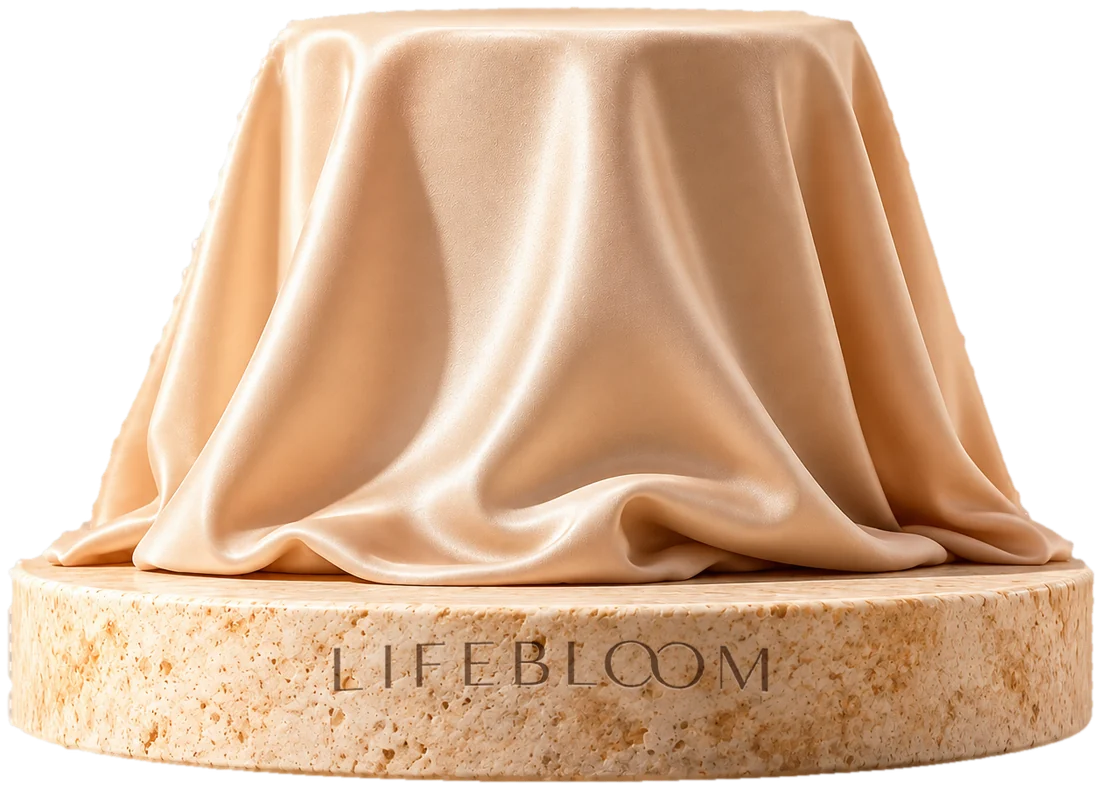
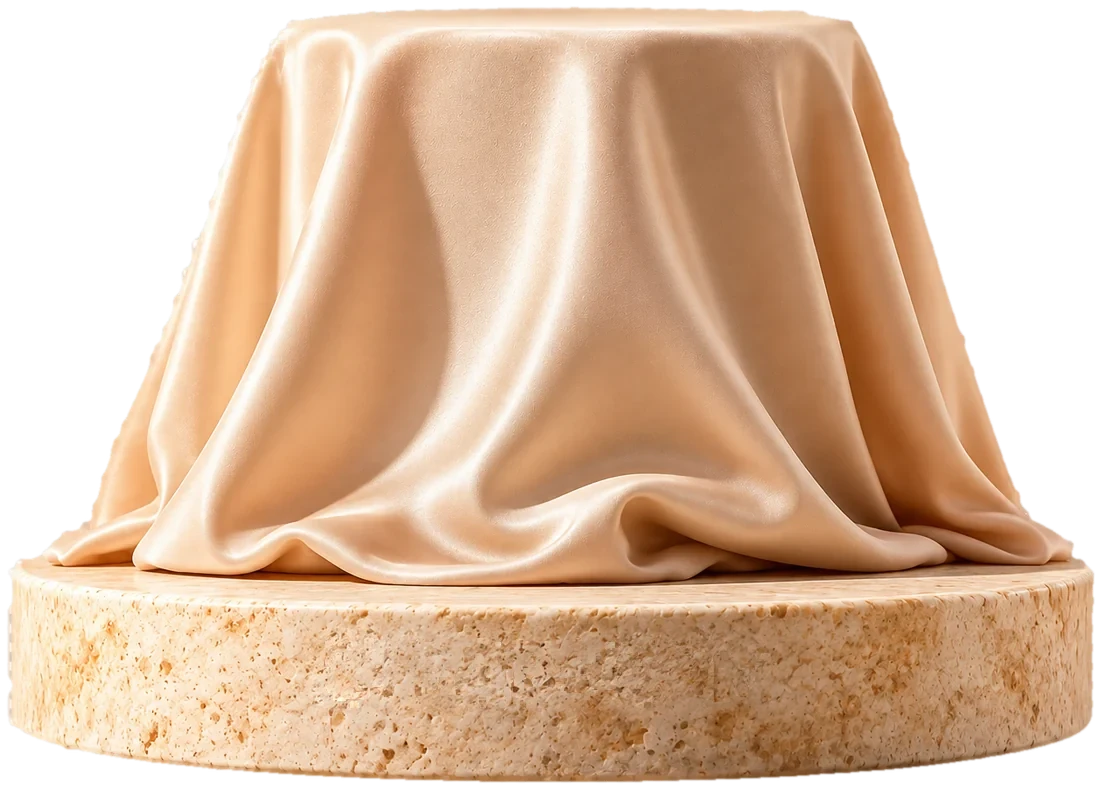
first changes list complete

Changed region(s): [[0.2782, 0.7919, 0.7109, 0.9137]]

diff --git a/index.html b/index.html
@@ -86,6 +86,15 @@ section[id]{scroll-margin-top:84px}
 .nav a{text-decoration:none;font-weight:500;font-size:.95rem;color:var(--cocoa-2);transition:color .2s}
 .nav a:hover{color:var(--rose-ink)}
 .hdr .btn{padding:.72rem 1.3rem;font-size:.92rem}
+.social{display:flex;gap:8px;align-items:center}
+.social a{width:40px;height:40px;border-radius:50%;border:1.5px solid rgba(63,38,25,.22);display:grid;place-items:center;color:var(--cocoa);transition:background .3s,border-color .3s,color .3s,transform .3s var(--ease)}
+.social a:hover{background:var(--white);border-color:var(--cocoa);color:var(--rose-ink);transform:translateY(-2px)}
+.social svg{width:18px;height:18px}
+.social-hdr{margin-left:-6px}
+.social-hdr a{width:36px;height:36px}
+.social-hdr svg{width:16px;height:16px}
+.social-ftr a{width:52px;height:52px}
+.social-ftr svg{width:20px;height:20px}
 
 /* ================= HERO: studio reveal ================= */
 .hero{position:relative;overflow:hidden;text-align:center;padding:30px 0 84px;
@@ -118,6 +127,10 @@ section[id]{scroll-margin-top:84px}
 .ped img{position:relative;width:100%;height:auto;filter:drop-shadow(0 26px 24px rgba(63,38,25,.15));transition:transform .7s var(--ease),filter .7s}
 .ped::before{content:"";position:absolute;left:7%;right:7%;bottom:-2.5%;height:13%;border-radius:50%;
   background:radial-gradient(ellipse at center,rgba(84,48,32,.42),rgba(84,48,32,0) 70%);filter:blur(5px);transition:transform .7s var(--ease),opacity .7s}
+/* slow turntable spin on the pedestal */
+.ped{perspective:1600px}
+.ready .ped img{animation:pedSpin 9s linear 1.6s infinite}
+@keyframes pedSpin{from{rotate:y 0deg}to{rotate:y 360deg}}
 .ped:hover img,.ped:focus-visible img{transform:translateY(-10px);filter:drop-shadow(0 38px 30px rgba(63,38,25,.2))}
 .ped:hover::before,.ped:focus-visible::before{transform:scale(.9);opacity:.7}
 .peek{position:absolute;left:50%;top:-6%;transform:translate(-50%,8px);opacity:0;pointer-events:none;white-space:nowrap;
@@ -173,8 +186,9 @@ section[id]{scroll-margin-top:84px}
 .manifesto p{font-family:var(--serif);font-weight:300;font-size:clamp(1.9rem,4.2vw,3.5rem);line-height:1.18;letter-spacing:-.02em;max-width:1000px;margin:0 auto;text-align:center}
 .manifesto .w{opacity:.16;transition:opacity .35s}
 .manifesto .w.on{opacity:1}
-.manifesto .sig{display:flex;justify-content:center;margin-top:40px}
-.manifesto .sig img{width:70px;opacity:.85}
+.manifesto p.m-close{font-style:italic;font-size:clamp(1.4rem,2.6vw,2.1rem);color:var(--rose-ink);margin-top:28px}
+.manifesto .sig{display:flex;justify-content:center;margin-top:48px}
+.manifesto .sig img{width:clamp(130px,16vw,180px);opacity:.9}
 
 /* ================= PRODUCT SHOWCASE ================= */
 .showcase{--tint:#F4E0D7;position:relative;border-radius:40px;background:var(--tint);transition:background .8s var(--ease);
@@ -211,28 +225,12 @@ section[id]{scroll-margin-top:84px}
 .sw small{display:block;font-size:.84rem;color:var(--muted);font-weight:500}
 .fine{font-size:.86rem;color:var(--muted);margin-top:18px}
 
-/* promise */
-.promise{display:grid;grid-template-columns:repeat(4,1fr);border-top:1px solid var(--line)}
-.pr{padding:34px 26px 14px 0}
-.pr+.pr{padding-left:26px;border-left:1px solid var(--line)}
-.pr .n{display:block;width:28px;height:2px;background:var(--rose);margin-top:4px}
-.pr h4{font-size:1.85rem;line-height:1.08;margin:10px 0 10px}
-.pr p{font-size:.97rem;color:var(--cocoa-2)}
-
-/* steps */
-.steps{list-style:none;display:grid;grid-template-columns:repeat(3,1fr);gap:22px;counter-reset:s}
-.steps li{border-top:1.5px solid var(--cocoa);padding-top:24px}
-.steps li::before{counter-increment:s;content:"0" counter(s);font-family:var(--serif);font-size:1rem;color:var(--rose-ink);display:block;margin-bottom:18px}
-.steps h4{font-size:1.9rem;line-height:1.08;margin-bottom:10px}
-.steps p{font-size:.97rem;color:var(--cocoa-2)}
-
 /* ================= FORM ================= */
 .prebook{background:var(--blush);border-radius:44px;padding:72px 64px;display:grid;grid-template-columns:.92fr 1.08fr;gap:56px;align-items:start;position:relative;overflow:hidden}
 .pb-ped{position:relative;max-width:380px;margin-top:40px}
 .pb-ped::before{content:"";position:absolute;left:10%;right:10%;bottom:9%;height:11%;border-radius:50%;
   background:radial-gradient(ellipse at center,rgba(63,38,25,.28),rgba(63,38,25,0) 70%);filter:blur(6px)}
 .pb-ped img{position:relative;width:100%;height:auto;filter:drop-shadow(0 22px 22px rgba(63,38,25,.16))}
-.pb-ped figcaption{font-family:var(--serif);font-style:italic;font-size:1.15rem;color:var(--cocoa-2);margin-top:10px;text-align:center}
 .perks{list-style:none;margin-top:26px;display:grid;gap:12px}
 .perks li{display:flex;gap:12px;align-items:center;font-weight:500}
 .perks .dot{width:28px;height:28px;border-radius:50%;background:var(--white);display:grid;place-items:center;flex:0 0 auto;color:var(--rose-ink)}
@@ -293,7 +291,7 @@ fieldset{border:0}
 .ftr-top{display:flex;justify-content:space-between;align-items:flex-end;gap:30px;flex-wrap:wrap}
 .ftr .stack{width:220px}
 .ftr .tagline{display:block;margin-top:14px}
-.ftr-links{display:flex;gap:12px;flex-wrap:wrap}
+.ftr-links{display:flex;gap:12px;flex-wrap:wrap;align-items:center}
 .disclaimer{font-size:.84rem;color:var(--muted);margin-top:44px;max-width:54rem}
 .credits{font-size:.78rem;color:var(--muted);margin-top:10px}
 .ftr-bot{display:flex;justify-content:space-between;gap:12px;flex-wrap:wrap;margin-top:22px;padding-top:20px;border-top:1px solid var(--line);font-size:.88rem;color:var(--cocoa-2)}
@@ -329,9 +327,6 @@ fieldset{border:0}
 @media (max-width:1020px){
   .showcase{grid-template-columns:1fr;padding:44px 34px;gap:26px}
   .sc-photo{max-width:340px}
-  .promise{grid-template-columns:1fr 1fr}
-  .pr:nth-child(3){padding-left:0;border-left:0}
-  .pr:nth-child(n+3){border-top:1px solid var(--line)}
   .prebook{grid-template-columns:1fr;padding:56px 40px;gap:36px}
   .pb-ped{max-width:280px;margin:28px auto 0}
 }
@@ -343,7 +338,11 @@ fieldset{border:0}
   .brand .mark{height:36px}
   .brand .word{height:15px}
   .nav{display:none}
-  .hdr .btn{margin-left:auto;padding:.66rem 1rem;font-size:.88rem}
+  .hdr-in{gap:12px}
+  .social-hdr{margin-left:auto;gap:6px}
+  .social-hdr a{width:32px;height:32px}
+  .social-hdr svg{width:14px;height:14px}
+  .hdr .btn{padding:.66rem 1rem;font-size:.88rem}
   .hero{padding:24px 0 64px}
   .podium{height:390px}
   .podium .giant{top:28%;width:96vw}
@@ -362,16 +361,16 @@ fieldset{border:0}
   .showcase{padding:30px 18px 26px;border-radius:30px;min-height:0}
   .sc-photo{max-width:280px}
   .switch{grid-template-columns:1fr;gap:8px}
-  .promise{grid-template-columns:1fr}
-  .pr,.pr+.pr,.pr:nth-child(3){padding:26px 0 18px;border-left:0}
-  .pr+.pr{border-top:1px solid var(--line)}
-  .steps{grid-template-columns:1fr;gap:34px}
   .prebook{padding:40px 18px;border-radius:30px}
   .card{padding:24px 18px;border-radius:24px}
   .row2{grid-template-columns:1fr}
   .faq summary{font-size:1.3rem}
   .wa-fab{display:none}
   .mbar{display:grid}
+}
+@media (max-width:520px){
+  .social-hdr{display:none}
+  .hdr .btn{margin-left:auto}
 }
 @media (prefers-reduced-motion:reduce){
   *,*::before,*::after{animation-duration:.01ms!important;animation-delay:0s!important;animation-iteration-count:1!important;transition-duration:.01ms!important;scroll-behavior:auto!important}
@@ -407,6 +406,7 @@ fieldset{border:0}
   <div class="shell hdr-in">
     <a class="brand" href="#top" aria-label="Lifebloom home"><img class="mark" src="assets/emblem.png" alt="" width="50" height="50"><img class="word" src="assets/wordmark.png" alt="Lifebloom" width="184" height="22"></a>
     <nav class="nav" aria-label="Main"><a href="#products">Products</a><a href="#about">About us</a></nav>
+    <div class="social social-hdr"><a href="#" data-social="instagram" target="_blank" rel="noopener" aria-label="Lifebloom on Instagram"><svg viewBox="0 0 24 24" fill="none" stroke="currentColor" stroke-width="2"><rect x="3" y="3" width="18" height="18" rx="5"/><circle cx="12" cy="12" r="4"/><circle cx="17.5" cy="6.5" r=".6" fill="currentColor"/></svg></a><a href="#" data-social="email" aria-label="Email Lifebloom"><svg viewBox="0 0 24 24" fill="none" stroke="currentColor" stroke-width="2"><rect x="3" y="5" width="18" height="14" rx="2"/><path d="m3 7 9 6 9-6"/></svg></a><a href="#" data-social="linkedin" target="_blank" rel="noopener" aria-label="Lifebloom on LinkedIn"><svg viewBox="0 0 24 24" fill="currentColor"><path d="M4.98 3.5a2.5 2.5 0 1 1 0 5 2.5 2.5 0 0 1 0-5ZM3 9.5h4V21H3V9.5Zm6.5 0h3.8v1.6h.06c.53-1 1.83-2.06 3.77-2.06 4.03 0 4.77 2.65 4.77 6.1V21h-4v-5.2c0-1.24-.02-2.84-1.73-2.84-1.73 0-2 1.35-2 2.75V21h-4V9.5Z"/></svg></a></div>
     <a class="btn btn-main" href="#prebook">Get early access</a>
   </div>
 </header>
@@ -430,7 +430,7 @@ fieldset{border:0}
   </div>
 
   <div class="shell hero-foot">
-    <p class="lede fade-in" style="--d:.35s">Wellness that moves with every stage of a woman&rsquo;s life.<br>Four thoughtfully curated supplements for periods, postpartum, menopause and everyday strength.</p>
+    <p class="lede fade-in" style="--d:.35s">Wellness that moves with every stage of a woman&rsquo;s life.</p>
     <div class="hero-cta fade-in" style="--d:.5s">
       <a class="btn btn-main" href="#prebook">Get early access</a>
     </div>
@@ -462,43 +462,20 @@ fieldset{border:0}
 
 <section class="manifesto" id="about">
   <div class="shell">
-    <p id="manifesto">A woman's body changes through the busy everyday, the months after giving birth, and the shift that comes in midlife. Most wellness is made for no one in particular. Lifebloom is made for her, at each of those moments.</p>
+    <p id="manifesto">Lifebloom is a women's wellness brand built around the biological journey of a woman. Every stage, from monthly cycles to motherhood to menopause, brings its own needs, and conversations about them are often kept quiet.</p>
+    <p class="m-close">One brand for every stage of a woman's journey.</p>
     <div class="sig"><img src="assets/emblem.png" alt=""></div>
   </div>
 </section>
 
 <section class="sec" id="products" style="padding-top:20px">
   <div class="shell">
-    <div class="sec-head"><h2>The first three</h2><p>Each one is made for a different stage of a woman's life. Pick one to learn more, or pre-book all three.</p></div>
     <div class="showcase" id="showcase" data-p="gummies">
       <div class="sc-photo" id="scPhoto" aria-hidden="true"><span class="form-tag"><i></i><span id="formTag">Chewable gummy</span></span></div>
       <div class="info" id="info"></div>
     </div>
     <div class="switch" role="tablist" aria-label="Choose a product" id="switch"></div>
     <p class="fine">Packaging, final names and full ingredient lists will be shared before launch. Photos show the moments each product is made for.</p>
-  </div>
-</section>
-
-<section class="sec" style="padding-top:20px">
-  <div class="shell">
-    <div class="sec-head"><h2>What we're promising, from day one</h2></div>
-    <div class="promise">
-      <div class="pr"><span class="n"></span><h4>Rooted in nature</h4><p>We're building every formula around ingredients from nature, and we'll show you each one.</p></div>
-      <div class="pr"><span class="n"></span><h4>Made for her stages</h4><p>Not one-size-fits-all. Each product is designed for a specific time in a woman's life.</p></div>
-      <div class="pr"><span class="n"></span><h4>Honest labels</h4><p>No hidden blends or vague promises. The full ingredient list goes on the label and on this site.</p></div>
-      <div class="pr"><span class="n"></span><h4>A real person replies</h4><p>Questions go to our team on WhatsApp, not a bot.</p></div>
-    </div>
-  </div>
-</section>
-
-<section class="sec" id="how" style="padding-top:20px">
-  <div class="shell">
-    <div class="sec-head"><h2>How pre-booking works</h2><p>It's free, and you're not committing to buy.</p></div>
-    <ol class="steps">
-      <li><h4>Pre-book in 30 seconds</h4><p>Tell us your name, email, age, mobile number and which products you're interested in.</p></li>
-      <li><h4>We confirm on WhatsApp</h4><p>You'll get a message from Lifebloom so you know your place is saved.</p></li>
-      <li><h4>Hear first at launch</h4><p>You'll get prices and first access before anyone else. Buy only if you want to.</p></li>
-    </ol>
   </div>
 </section>
 
@@ -513,7 +490,7 @@ fieldset{border:0}
           <li><span class="dot"><svg viewBox="0 0 24 24" fill="none" stroke="currentColor" stroke-width="2.4"><path d="M20 6 9 17l-5-5"/></svg></span>First access on launch day</li>
           <li><span class="dot"><svg viewBox="0 0 24 24" fill="none" stroke="currentColor" stroke-width="2.4"><path d="M20 6 9 17l-5-5"/></svg></span>Pay only if you decide to buy</li>
         </ul>
-        <figure class="pb-ped"><img src="assets/pedestal-ivory.webp" alt="A stone pedestal draped in ivory satin with Lifebloom engraved on the base" width="1100" height="788" loading="lazy"><figcaption>Your place, kept under wraps until launch.</figcaption></figure>
+        <figure class="pb-ped"><img src="assets/pedestal-ivory.webp" alt="A stone pedestal draped in ivory satin" width="1100" height="788" loading="lazy"></figure>
       </div>
       <div class="card">
         <!-- Netlify Forms picks this form up automatically on deploy (Site > Forms in the Netlify dashboard) -->
@@ -574,8 +551,9 @@ fieldset{border:0}
     <div class="ftr-top">
       <div><img class="stack" src="assets/logo-stack.png" alt="Lifebloom" width="220" height="125"><span class="tagline">A healthier, brighter you</span></div>
       <div class="ftr-links">
+        <div class="social social-ftr"><a href="#" data-social="instagram" target="_blank" rel="noopener" aria-label="Lifebloom on Instagram"><svg viewBox="0 0 24 24" fill="none" stroke="currentColor" stroke-width="2"><rect x="3" y="3" width="18" height="18" rx="5"/><circle cx="12" cy="12" r="4"/><circle cx="17.5" cy="6.5" r=".6" fill="currentColor"/></svg></a><a href="#" data-social="email" aria-label="Email Lifebloom"><svg viewBox="0 0 24 24" fill="none" stroke="currentColor" stroke-width="2"><rect x="3" y="5" width="18" height="14" rx="2"/><path d="m3 7 9 6 9-6"/></svg></a><a href="#" data-social="linkedin" target="_blank" rel="noopener" aria-label="Lifebloom on LinkedIn"><svg viewBox="0 0 24 24" fill="currentColor"><path d="M4.98 3.5a2.5 2.5 0 1 1 0 5 2.5 2.5 0 0 1 0-5ZM3 9.5h4V21H3V9.5Zm6.5 0h3.8v1.6h.06c.53-1 1.83-2.06 3.77-2.06 4.03 0 4.77 2.65 4.77 6.1V21h-4v-5.2c0-1.24-.02-2.84-1.73-2.84-1.73 0-2 1.35-2 2.75V21h-4V9.5Z"/></svg></a></div>
         <a class="btn btn-soft" href="#" data-wa="Hi Lifebloom, I have a question about the launch."><svg viewBox="0 0 24 24" fill="currentColor" style="color:#25D366"><path d="M12 2a10 10 0 0 0-8.5 15.3L2 22l4.8-1.5A10 10 0 1 0 12 2Zm0 18a8 8 0 0 1-4.2-1.2l-.3-.2-2.9.9.9-2.8-.2-.3A8 8 0 1 1 12 20Z"/></svg>+91 98380 43210</a>
-        <a class="btn btn-main" href="#prebook">Pre-book free</a>
+        <a class="btn btn-main" href="#prebook">Get early access</a>
       </div>
     </div>
     <p class="disclaimer">Lifebloom products are food supplements. They are not intended to diagnose, treat, cure or prevent any disease and are not a substitute for a balanced diet. If you are pregnant, breastfeeding, taking medication or have a medical condition, please speak to your doctor before starting any supplement. Product names, formats and launch timing may change before launch.</p>
@@ -605,6 +583,8 @@ var reduce=window.matchMedia('(prefers-reduced-motion: reduce)').matches;
    localPhotos: set true after running  node download-photos.mjs
    ============================================================= */
 var CFG={brand:'Lifebloom', wa:'919838043210', saveTo:'netlify', minAge:18, maxAge:99, localPhotos:false};
+/* social links for the header and footer buttons: replace with the real accounts */
+var SOCIAL={instagram:'https://www.instagram.com/', email:'hello@example.com', linkedin:'https://www.linkedin.com/'};
 
 /* Free Unsplash photos (commercial use allowed). The block between the markers is read by download-photos.mjs */
 /* PHOTOS:START */
@@ -627,7 +607,7 @@ function setPhoto(img,key,w){
 var PRODUCTS=[
  {id:'gummies',name:'Protein Gummies',stage:'For everyday',ph:'everyday',form:'Chewable gummy',
   hook:'Protein you will actually look forward to.',
-  desc:'A chewable, on-the-go way to add protein to your day. Made for busy women who skip meals or never find time for a shake.',
+  desc:'A gummy, on-the-go way to add protein to your day. Made for busy women who skip meals or never find time for a shake.',
   points:['Chewable, no shaker or water needed','Small enough to carry in your bag','Easy to make part of your daily routine']},
  {id:'capsules',name:'Menopause Capsules',stage:'Through menopause',ph:'midlife',form:'Daily capsule',
   hook:'Steady support for a big change.',
@@ -640,11 +620,9 @@ var PRODUCTS=[
 ];
 var FAQ=[
  ['Do I pay anything to pre-book?','No. Pre-booking is completely free and you are not committing to buy. You only pay if you decide to order at launch.'],
- ['When does Lifebloom launch?','We will announce the launch date on WhatsApp first. People who pre-book hear before anyone else.'],
  ['What is in each product?','We will share the full ingredient list for every product before launch, on the label and on this site.'],
  ['Can I take these if I am pregnant or breastfeeding?','Please check with your doctor before starting any supplement if you are pregnant, breastfeeding, taking medication or have a medical condition.'],
- ['Can I pre-book for my mother or sister?','Yes. Fill in the form with their details, with their permission, so we contact the right person.'],
- ['Will you send me spam?','No. We only message you about your pre-booking and the launch. Reply STOP on WhatsApp any time and we will remove you.']
+ ['Can I pre-book for my mother or sister?','Yes. Fill in the form with their details, with their permission, so we contact the right person.']
 ];
 
 var ICK='<svg viewBox="0 0 24 24" fill="none" stroke="currentColor" stroke-width="2.2"><path d="M20 6 9 17l-5-5"/></svg>';
@@ -652,6 +630,7 @@ function esc(s){return String(s).replace(/&/g,'&amp;').replace(/</g,'&lt;').repl
 function waURL(m){return 'https://wa.me/'+CFG.wa+'?text='+encodeURIComponent(m)}
 function openWA(m){window.open(waURL(m),'_blank','noopener')}
 $('#yr').textContent=new Date().getFullYear();
+$$('[data-social]').forEach(function(a){var k=a.dataset.social;a.href=k==='email'?'mailto:'+SOCIAL.email:SOCIAL[k]});
 d.addEventListener('click',function(e){var a=e.target.closest('[data-wa]');if(!a)return;e.preventDefault();openWA(a.getAttribute('data-wa'))});
 var hdr=$('#hdr');function sc(){hdr.classList.toggle('scrolled',scrollY>6)}addEventListener('scroll',sc,{passive:true});sc();
 
